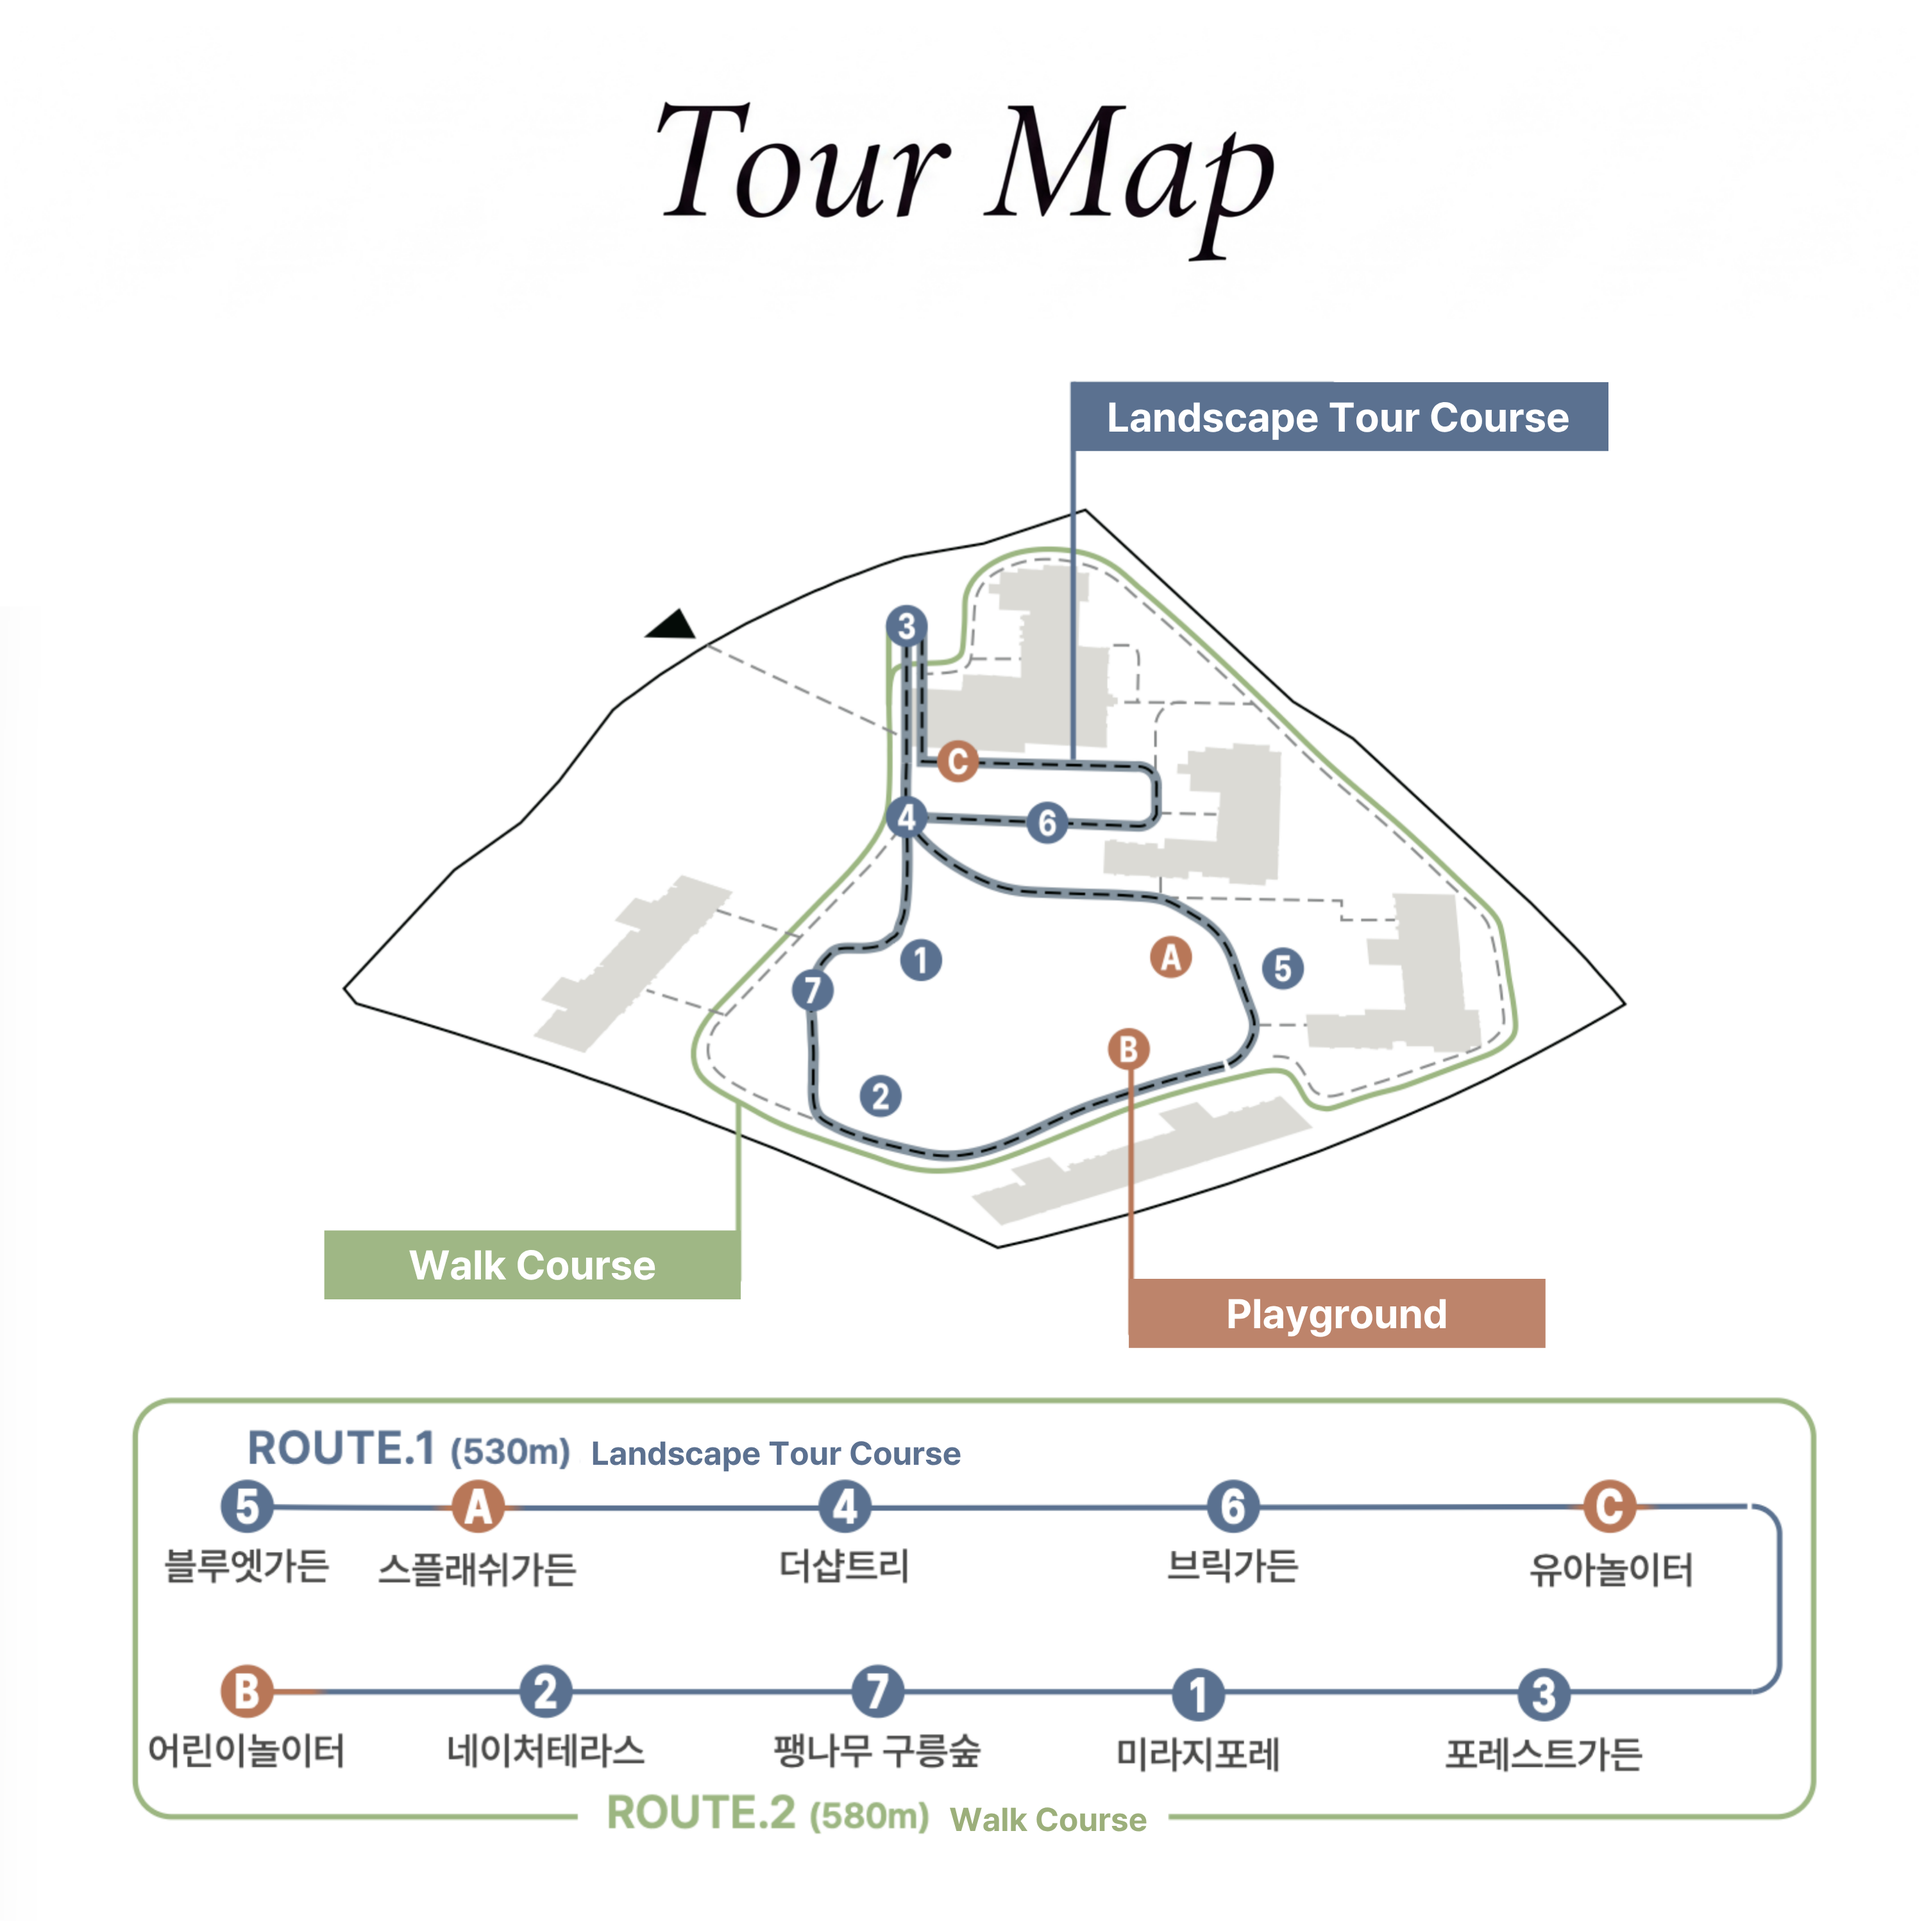
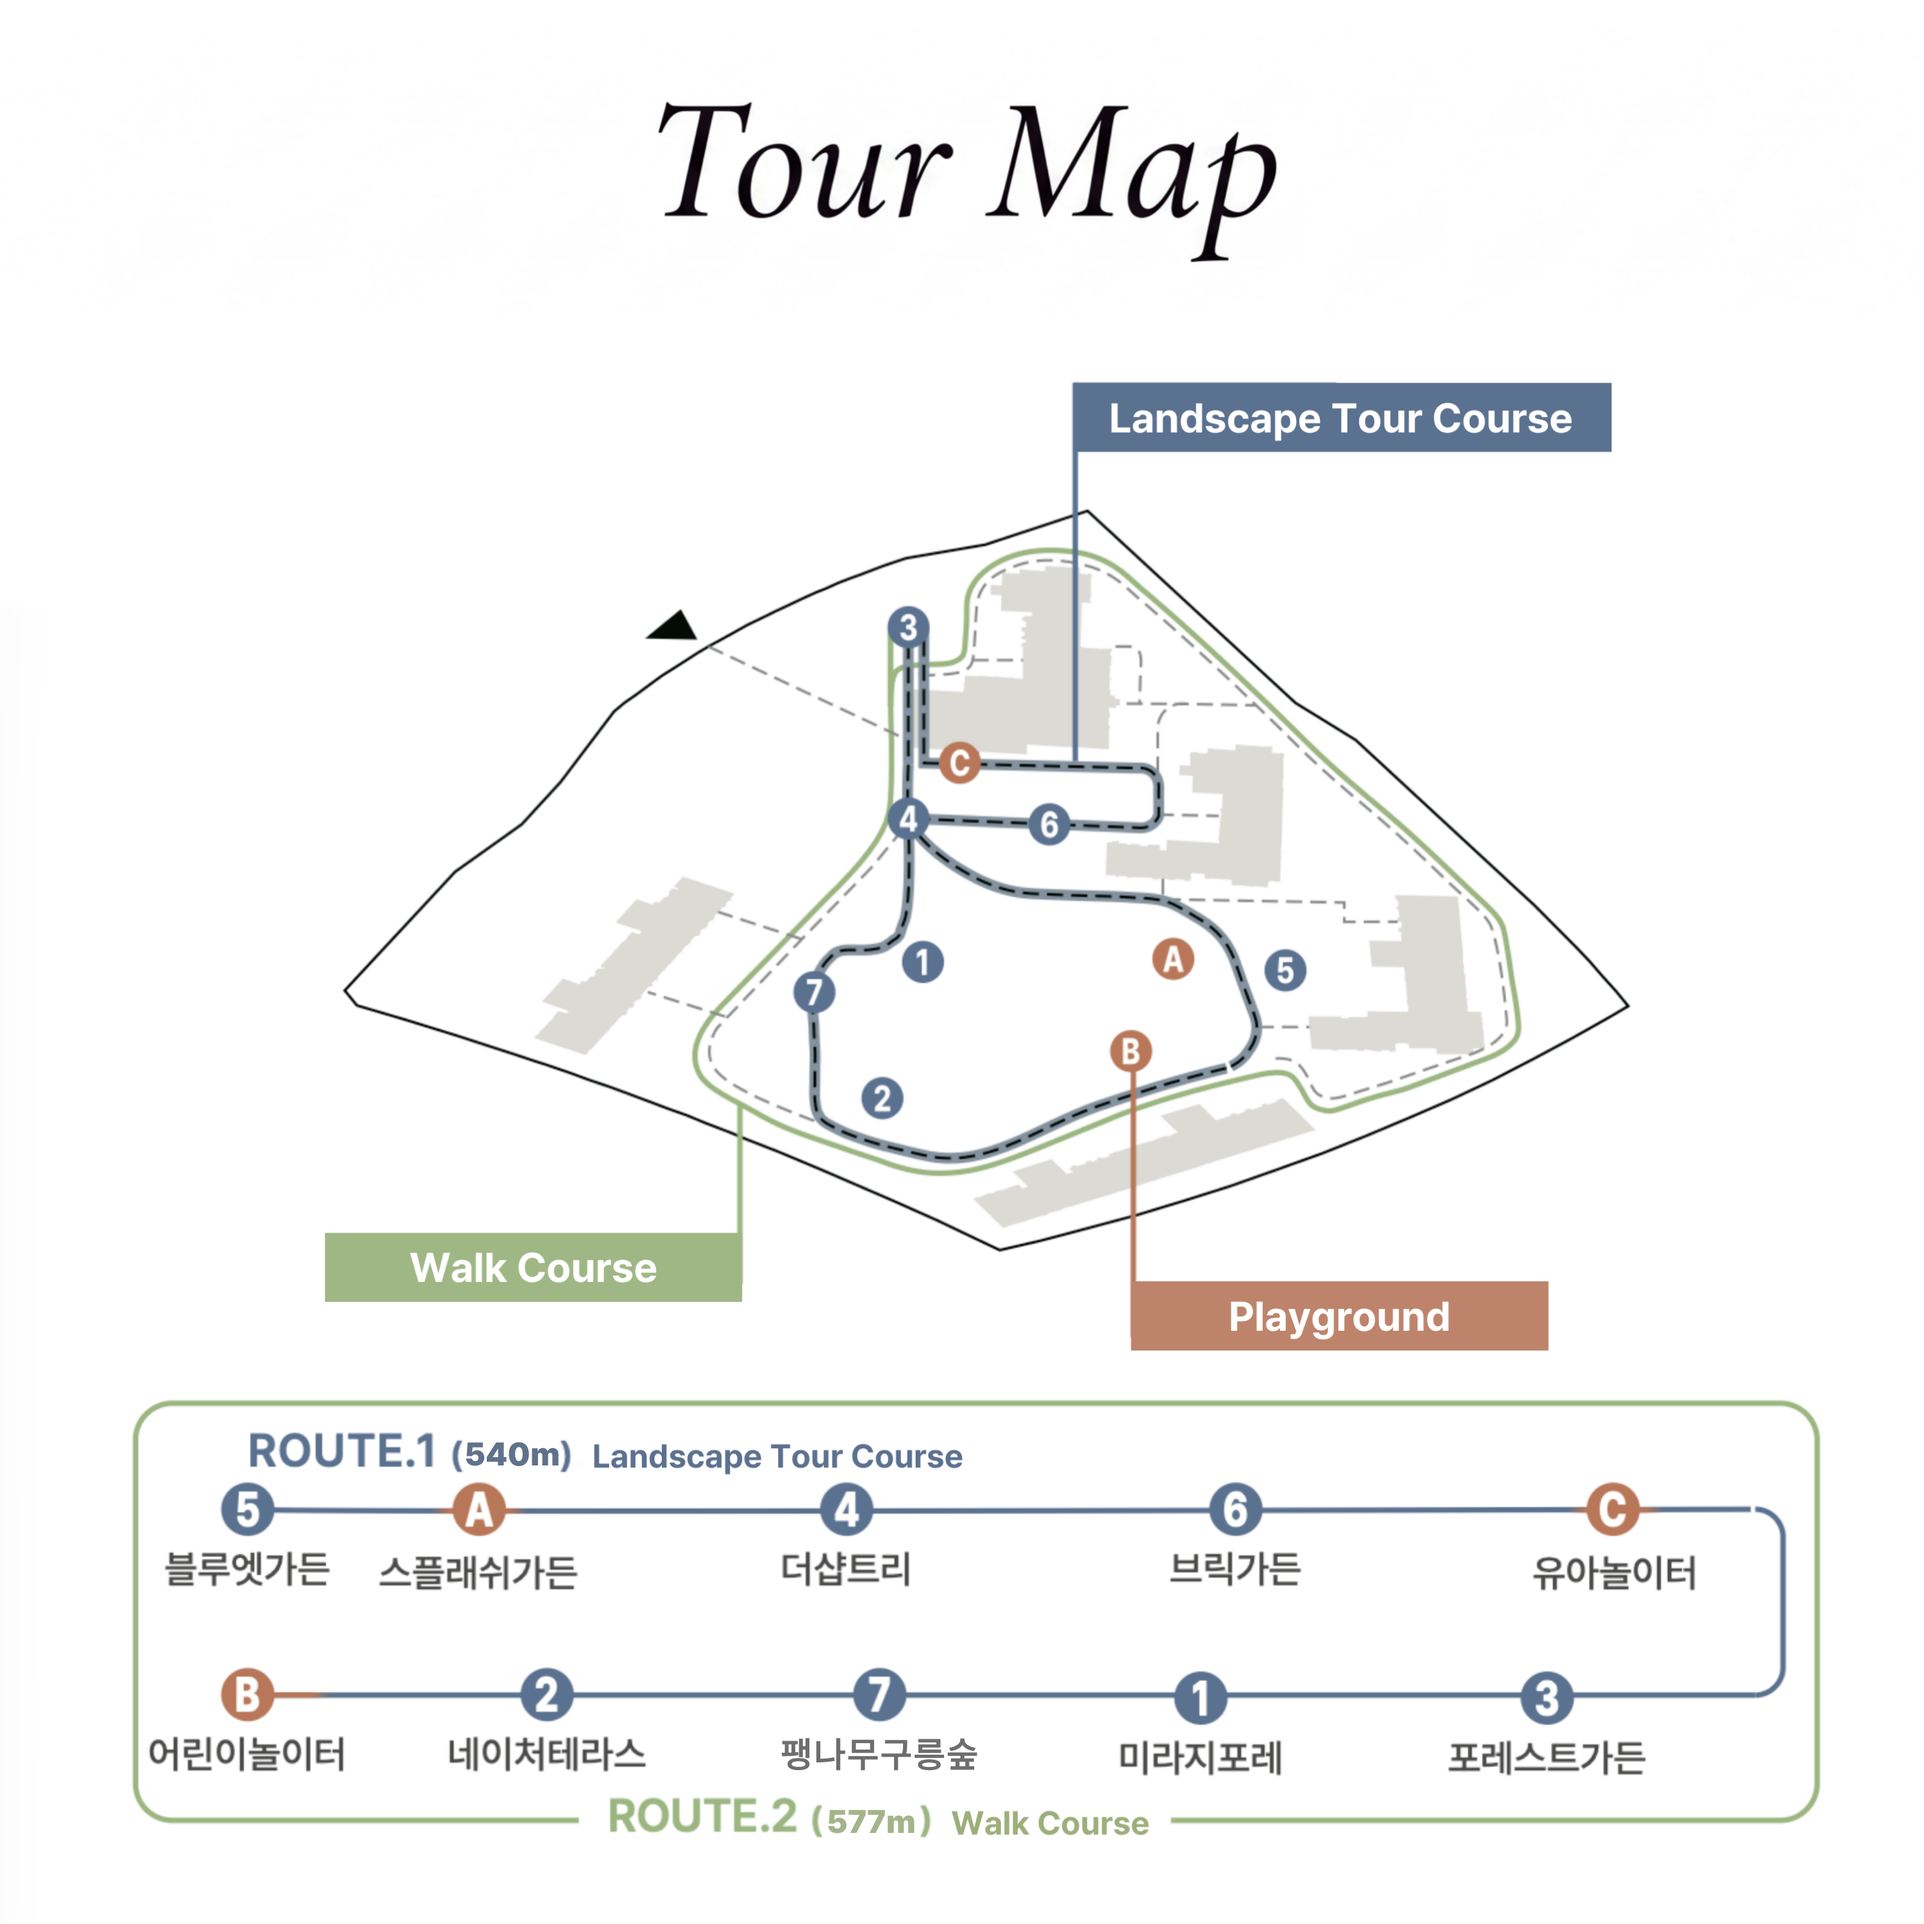
adad 12

diff --git a/jj-eco.html b/jj-eco.html
@@ -4504,7 +4504,7 @@
       <p class="sc-label">Description</p>
       <div class="sc-text">
         <p class="sc-lede">수국이 피어나는 정원에서 투어가 시작됩니다.</p>
-        <p>블루엣가든에서 유아놀이터까지 이어지는 540m의 동선은 <br class="sc-br">단지의 중심을 가로지르며 대표 정원을 차례로 잇습니다.</p>
+        <p>블루엣가든에서 어린이놀이터까지 이어지는 540m의 동선은 <br class="sc-br">단지의 중심을 가로지르며 대표 정원을 차례로 잇습니다.</p>
         <p>수국과 곡선형 플랜터의 블루엣가든을 지나면 <br class="sc-br">잔디언덕 위 <span class="sc-nb">상징수 ‘더샵트리’</span>가 모습을 드러냅니다.</p>
         <p>벽돌의 조형미를 담은 브릭가든이 그 뒤를 잇고, <br class="sc-br">스플래쉬가든과 유아놀이터가 아이들의 웃음을 채웁니다.</p>
       </div>
@@ -6249,7 +6249,7 @@
       imgs:['./img/jj-eco/a-1.jpg', './img/jj-eco/a-2.jpg'],
       audio:'./img/jj-eco/audio/1.wav',
       line:'수국과 곡선형 플랜터가 조화를 이루는 정원',
-      desc:'조경 투어의 첫 장면을 여는 정원입니다. 풍성한 수국과 부드러운 곡선형 플랜터가 어우러져, 계절마다 푸른 꽃물결 속을 거닐 듯 산책을 시작할 수 있습니다.',
+      desc:'조경 투어의 첫 장면을 여는 정원입니다. 풍성한 수국과 부드러운 곡선형 플랜터가 어우러져, 계절마다 다채로운 꽃물결 속을 거닐 듯 산책을 시작할 수 있습니다.',
       tip:'수국이 피는 계절, 곡선을 따라 이어지는 플랜터 사이를 천천히 걸어 보세요.' },
     { code:'A', course:'water', name:'스플래쉬가든', en:'SPLASH GARDEN', key:false, play:true,
       feat:'워터버킷 · 물놀이시설', img:'./img/jj-eco/l-13.jpg',
@@ -6282,12 +6282,12 @@
 
     /* ROUTE.2 · 단지외곽산책로 · 577m */
     { code:'B', course:'forest', name:'어린이놀이터', en:"CHILDREN'S PLAYGROUND", key:false, play:true,
-      feat:'창의 놀이시설 · 키즈스테이션', img:'./img/jj-eco/l-6.jpg',
+      feat:'창의 놀이시설 · 키즈스테이션 : 유아놀이터 전면부 위치', img:'./img/jj-eco/l-6.jpg',
       imgs:['./img/jj-eco/a-8.jpg'],
       audio:'./img/jj-eco/audio/6.wav',
       line:'상상력과 모험심을 깨우는 창의놀이공간',
       desc:'오르고 건너며 상상력과 모험심을 키우는 창의 놀이 공간입니다. 개성 있는 놀이 구조물이 아이들의 도전을 이끌고, 인근 키즈스테이션이 안전한 등하원을 돕습니다.',
-      tip:'산책로의 출발점입니다. 아이들이 노는 동안 곁의 키즈스테이션도 함께 살펴보세요.' },
+      tip:'산책로의 출발점입니다. 아이들이 노는 동안 네이처테라스에서 휴식과 여유를 취해보세요.' },
     { code:'2', course:'forest', name:'네이처테라스', en:'NATURE TERRACE', key:true, play:false,
       feat:'2층 티하우스 · 야외 테라스 · 잔디마당 · 파고라', img:'./img/jj-eco/l-5.jpg',
       imgs:['./img/jj-eco/a-9.jpg', './img/jj-eco/a-10.jpg'],
@@ -6304,7 +6304,7 @@
       tip:'구릉 사이로 난 산책길을 따라 걸으며 팽나무 군락이 만드는 숲의 리듬을 느껴 보세요.' },
     { code:'1', course:'forest', name:'미라지포레', en:'MIRAGE FORET', key:true, play:false,
       feat:'곡선형 플랜터 · 낙수대 · 풍성한 식재', img:'./img/jj-eco/l-2.jpg',
-      imgs:['./img/jj-eco/a-12.jpg'],
+      imgs:['./img/jj-eco/l-7.jpg'],
       audio:'./img/jj-eco/audio/9.wav',
       line:'곡선의 미학으로 완성한 특별한 수경공간',
       desc:'유려한 곡선형 플랜터와 낙수대, 풍성한 식재가 조화를 이루며 입체적인 조경 경관을 연출합니다. 차별화된 디자인과 자연스러운 곡선의 흐름이 어우러져 독창적인 풍경을 완성합니다.',
